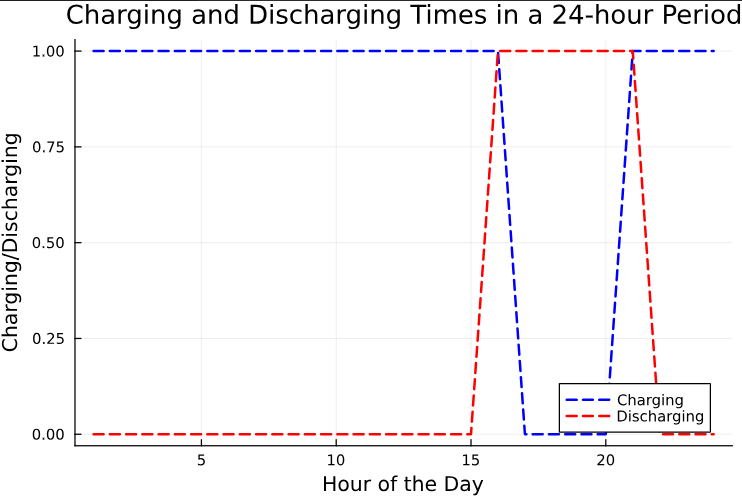
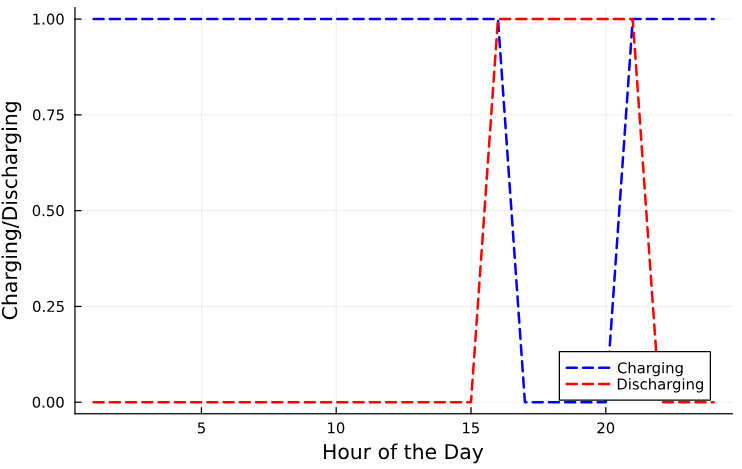
added placeholder imgs for the optimizer, and history page. Completed profile page

Changed region(s): [[0.031, 0.0, 1.0, 0.9851], [0.0, 0.209, 0.093, 0.7164], [0.031, 0.0896, 0.093, 0.1194]]

diff --git a/react-battery-tech/src/pages/Optimizer.jsx b/react-battery-tech/src/pages/Optimizer.jsx
@@ -1,8 +1,33 @@
 import React from 'react';
+import { Link } from 'react-router-dom';
 
 const Optimizer = () => {
+  const customContainer = {
+    "max-width": "350px"
+  };
+
   return (
-    <div>Optimizer</div>
+    <>
+    <div className = 'container text-center'>
+      <div className = 'mb-4'>
+      <h2 className = 'border-bottom pb-3'>Your Optimized Routine</h2>
+        <h4>Charge and Discharge over 24 Hour period</h4>
+          <img className = 'mb-5' src="../../docs/images/chargeDischarge.png" alt="" />
+          <h5>Charging Periods:</h5>
+          <div className = 'container text-center' style = {customContainer}>
+              <ol className = 'mb-5'>
+                <li><p>12am-3pm (0:00-15:00)</p></li>
+                <li><p>9pm-12am (21:00-00:00)</p></li>
+              </ol>   
+            <h5>Discharging Periods:</h5>
+              <ol className = 'mb-5'>  
+                <li><p>3pm-9pm (15:00-21:00)</p></li>  
+              </ol>
+            <Link to = '/savings'><button className = 'btn btn-primary p-2 px-5'>View Potential Savings With This Schedule</button></Link>
+          </div>
+      </div>
+    </div>
+    </>
   )
 }
 

diff --git a/react-battery-tech/src/pages/NewUser.jsx b/react-battery-tech/src/pages/NewUser.jsx
@@ -2,7 +2,8 @@
 import React, { useState } from 'react';
 import { Link } from 'react-router-dom';
 
-const NewUser = () => {
+const NewUser = (props) => {
+    const title = "New User Account";
     const imgURL = "/node_modules/bootstrap-icons/icons/battery-half.svg";
     const customContainer = {
         "max-width": "400px",
@@ -28,7 +29,7 @@ const NewUser = () => {
 
     return (
         <div className="container text-center">
-            <h2 className='border-bottom pb-1'>Account Information</h2>
+            <h2 className='border-bottom pb-1'>{props.title ? props.title : title}</h2>
 
             {/* New User Form */}
             <form>
@@ -140,7 +141,7 @@ const NewUser = () => {
                     </div>
 
                     <Link to='/home'>
-                        <button type="submit" className="btn btn-primary mt-5">Submit</button>
+                        <button type="submit" className="btn btn-primary mt-5">{props.title ? "Save" : "Submit"}</button>
                     </Link>
 
                 </div>

diff --git a/react-battery-tech/src/pages/Profile.jsx b/react-battery-tech/src/pages/Profile.jsx
@@ -1,8 +1,11 @@
 import React from 'react';
+import NewUser from './NewUser';
 
 const Profile = () => {
   return (
-    <div>Profile</div>
+    <>
+    <NewUser title = "Account Information"/>
+    </>
   )
 }
 
